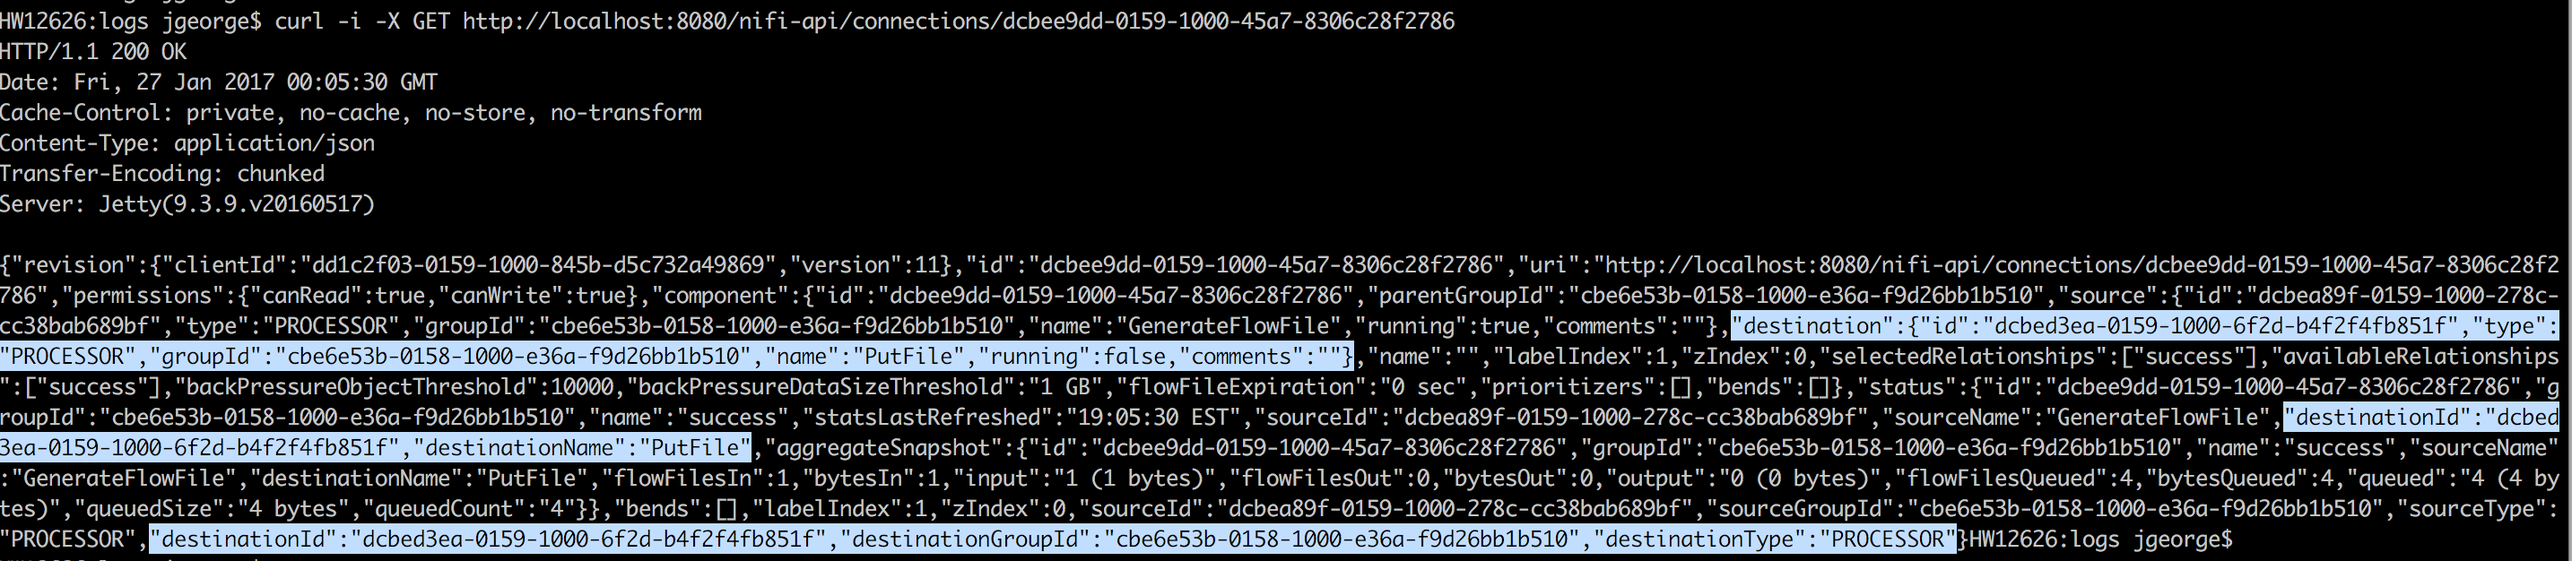
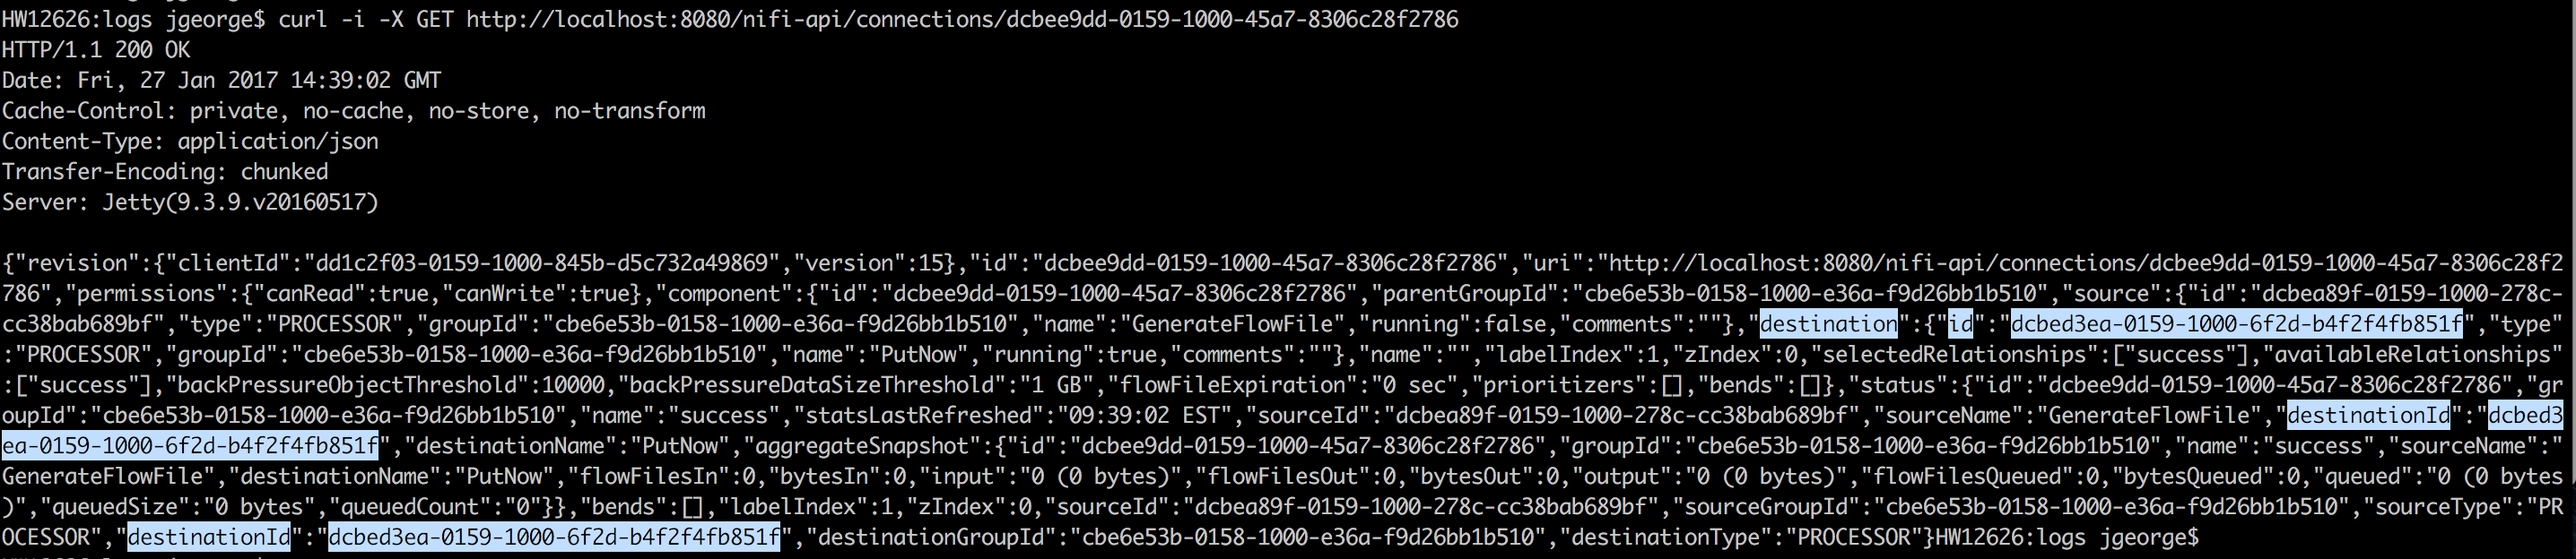
Image-updates
Image-updates and Read Me

Changed region(s): [[0.0, 0.4567, 1.0, 1.0], [0.0, 0.0, 0.5896, 0.2131], [0.0, 0.2436, 0.1552, 0.3958]]

diff --git a/README.md b/README.md
@@ -1,1 +1,34 @@
 # Update-NiFi-Connection-via-API
+
+## Short Description
+
+Recently a customer asked me how to change destinate of a connection which still contains data, but the destination is stopped, I am trying to demonstrate the same from command line.
+
+## Introduction
+
+Using NiFi REST Api we can change the flow, here in this article I am trying to capture steps to update destination of a connection using REST API.
+
+## Prerequisites
+
+1) Make sure HDF-2.x version of NiFi is up an running
+2) Minimum 3 processors are on the canvas with connection like below:
+
+![alt tag](https://github.com/jobinthompu/Update-NiFi-Connection-via-API/blob/master/Images/data_flow_before.jpg)
+
+3) Note the destination's uuid [In my case 'PutNext' processor's uuid]
+
+![alt tag](https://github.com/jobinthompu/Update-NiFi-Connection-via-API/blob/master/Images/PutNext_uuid.jpg)
+
+4) Note the uuid of the connection that has to be made to the 'PutNext' processor
+
+![alt tag](https://github.com/jobinthompu/Update-NiFi-Connection-via-API/blob/master/Images/Connection.jpg)
+
+## 'GET'ing the details of connection
+
+1) Execute the below command on your terminal with uuid of the connection:
+
+```
+curl -i -X GET http://localhost:8080/nifi-api/connections/dcbee9dd-0159-1000-45a7-8306c28f2786 
+```
+
+2) 
